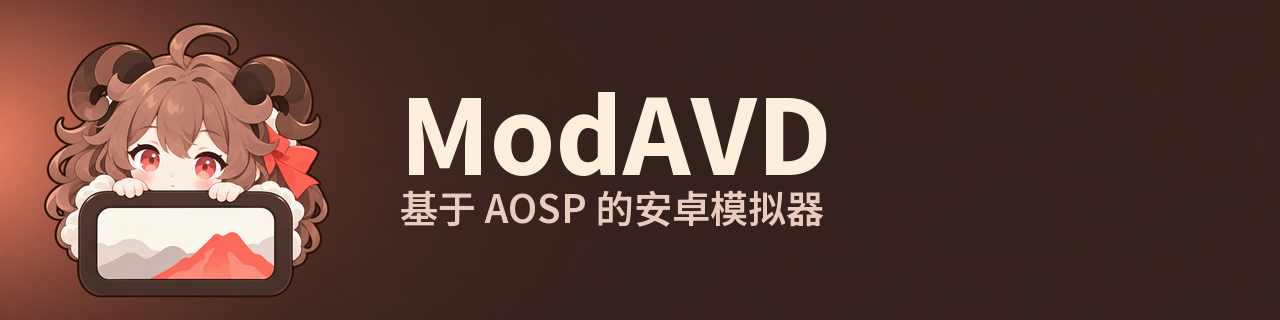
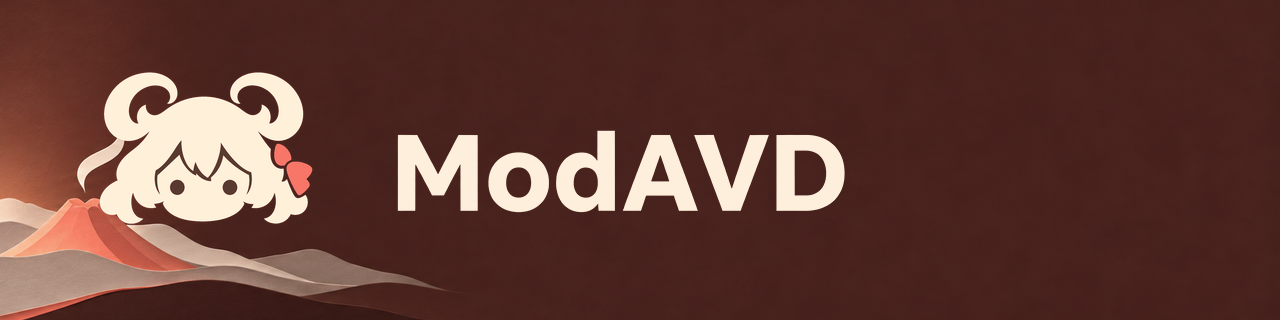
更新中英 README 开头和宣传配图

Changed region(s): [[0.0, 0.0, 0.3438, 1.0], [0.3125, 0.2812, 0.6875, 0.7188]]

diff --git a/README.en.md b/README.en.md
@@ -4,11 +4,9 @@
 
 <!-- README.md and README.en.md match section by section: if you change one, change the other in the same PR. -->
 
-![ModAVD – An AOSP-based Android emulator](assets/banner-en.png)
+![ModAVD](assets/banner.png)
 
-ModAVD is an Android emulator built from the AOSP Android Emulator 37.2.10 plus a set of patches. It runs on Windows today; support for more platforms is planned (see [#27](https://github.com/ModAVD/ModAVD/issues/27)).
-
-The package includes a manager (`ModAVD.exe`) and a CLI (`tools\modavd.exe`) for creating instances, starting and stopping them and updating ModAVD, with Chinese and English interfaces. Automation tools such as [AUTO-MAS](https://github.com/AUTO-MAS-Project/AUTO-MAS) can drive it too and handle instance orchestration and task flows. The capture library in the package lets automation tools read the screen, tap, press keys and type text without adb; from v6.23.0, MAA can connect to ModAVD directly.
+ModAVD is an Android emulator for Windows, with more platforms planned.
 
 **Documentation: <https://modavd.github.io/en/>** (installation, upgrade, feedback, privacy, the components and how to contribute are all there)
 
@@ -28,10 +26,22 @@ The package includes a manager (`ModAVD.exe`) and a CLI (`tools\modavd.exe`) for
 
 ## What is ModAVD
 
-- An Android emulator that runs on Windows today and uses the Windows Hypervisor Platform (WHPX) for hardware acceleration. More platforms are planned.
-- It can run in a window like any emulator, or headless (no window). The manager always starts instances with a window; headless starts come from the CLI or a script, and the manager or the CLI can shut them down afterwards.
-- The emulator itself comes from Google's open-source [Android Emulator](https://android.googlesource.com/platform/external/qemu/). We changed parts of QEMU, gfxstream (graphics streaming) and Crashpad (crash handling), and the changes are published as patches (`patches/`).
-- adb and the Android system images belong to Google and are covered by the Android Software Development Kit License Agreement, so we cannot distribute them. They are not in the Release; **Fetch components** in the manager, or the CLI command `tools\modavd.exe components fetch`, downloads them from the official channels on your computer.
+- Start an instance in a window from the manager, or run it without a window from the command line.
+- A cloned instance comes with the original instance's games, sign-in state, and settings.
+- Choose a resolution and a landscape or portrait orientation for each instance.
+- Type directly in the emulator window with your Windows input method.
+- Updating ModAVD keeps your existing instances, games, and sign-in state.
+- ModAVD works with automation tools such as AUTO-MAS and MAA.
+
+| Clone instances | Display settings per instance | Keep your instances when you update |
+| --- | --- | --- |
+| ![](assets/readme/clone.png) | ![](assets/readme/display.png) | ![](assets/readme/retain.png) |
+
+<!-- Add the manager instance list screenshot when available. -->
+
+| Instance settings | Emulator window |
+| --- | --- |
+| ![Resolution, DPI, and orientation settings in the manager](assets/readme/manager-settings.png) | ![Emulator window showing Android Settings and title bar buttons for screenshots, rotation, maximizing, and volume](assets/readme/instance-window.png) |
 
 Compared with the official emulator, the published 0.43.0 release no longer uploads usage statistics or crash reports to Google, and no longer checks Google for updates or downloads feature flags. Write-through lowers the risk of qcow2 metadata corruption when an instance is force-killed, but you should still run `sync` first. Memory that Android frees goes back to Windows. The data disk is 256 GB by default and takes only as much space on the PC as has actually been written; it can also be set to a fixed size. *Arknights* and *Arknights: Endfield* download their resources to a separate download disk, so frequent flushes to disk no longer slow them down. In a window, the title bar has maximize, screenshot and rotate buttons, plus a volume button when sound is on for the instance. A batch of graphics, networking and WHPX problems are fixed. From 0.36.0 the package includes the arm64 execution bridge, which lets some games that ship only for arm64 run; any other arm64-only game still has to be verified one by one. For the games we have tested, see [Tested games](#tested-games). For the item-by-item differences see [How ModAVD differs from the official emulator](https://modavd.github.io/en/guide/changes) on the docs site; for each patch see `patches/`.
 

diff --git a/README.md b/README.md
@@ -4,11 +4,9 @@
 
 <!-- README.md 和 README.en.md 逐节对应：改了其中一份，请在同一个 PR 里把另一份也改了。 -->
 
-![ModAVD：基于 AOSP 的安卓模拟器](assets/banner.png)
+![ModAVD](assets/banner.png)
 
-基于 AOSP Android Emulator 37.2.10 的安卓模拟器，加了一批补丁后自己编译。目前支持 Windows，以后计划支持更多平台（见 [#27](https://github.com/ModAVD/ModAVD/issues/27)）。
-
-包里带管理器 `ModAVD.exe` 和命令行 `tools\modavd.exe`，用来建实例、开机关机、更新，有中文和英文界面；也可以接入 [AUTO-MAS](https://github.com/AUTO-MAS-Project/AUTO-MAS) 这类自动化工具，由它们负责实例编排和任务流程。包里的截图库让这类工具不经 adb 直接取画面、点击、按键和输入文字；MAA 从 v6.23.0 起可以直接选 ModAVD 连接。
+ModAVD 是一款安卓模拟器，目前支持 Windows，计划支持更多平台。
 
 **文档站：<https://modavd.github.io/>**（安装、升级、反馈、隐私、各组件和参与开发的说明都在那里）
 
@@ -28,10 +26,22 @@
 
 ## 这是什么
 
-- 一个安卓模拟器，现在跑在 Windows 上，用 Windows 虚拟机监控程序平台（WHPX）做硬件加速；以后计划支持更多平台。
-- 可以开窗口当普通模拟器用，也可以不开窗口（无头）运行。管理器开机带窗口；无头开机用命令行或脚本，用完可以在管理器或命令行里关掉。
-- 模拟器本体来自 Google 开源的 [Android Emulator](https://android.googlesource.com/platform/external/qemu/)。我们改了其中的 QEMU、gfxstream（图形转发）和 Crashpad（崩溃处理），改动以补丁形式公开（`patches/`）。
-- adb 和安卓系统镜像属于 Google，受《Android 软件开发套件许可协议》约束，不能由我们分发，所以不在 Release 里，由管理器的「补全组件」（或命令行 `tools\modavd.exe components fetch`）在你的电脑上从官方渠道下载。
+- 用管理器带窗口启动，或用命令行无窗口运行。
+- 复制出来的实例也带着原来的游戏、登录状态和设置。
+- 每台实例都可以单独选择分辨率和横竖屏方向。
+- 在模拟器窗口里，可以直接用 Windows 输入法打字。
+- 更新 ModAVD 时会保留已有的实例、游戏和登录状态。
+- ModAVD 可以接入 AUTO-MAS、MAA 等自动化工具。
+
+| 复制实例 | 每台实例的显示设置 | 更新后接着用 |
+| --- | --- | --- |
+| ![](assets/readme/clone.png) | ![](assets/readme/display.png) | ![](assets/readme/retain.png) |
+
+<!-- 管理器实例列表截图待补。 -->
+
+| 实例设置 | 模拟器窗口 |
+| --- | --- |
+| ![管理器里的分辨率、DPI 和横竖屏设置](assets/readme/manager-settings.png) | ![打开安卓系统设置的模拟器窗口，标题栏上有截图、旋转、最大化和音量按钮](assets/readme/instance-window.png) |
 
 和官方模拟器相比，已发布的 0.43.0 不再向 Google 上传使用统计和崩溃报告，也不向 Google 检查更新、下载特性开关；write-through 降低强行结束时 qcow2 元数据损坏的风险，但仍应先执行 `sync`；安卓释放的内存还给 Windows；数据盘默认 256 GB、电脑上只按实际写入占空间，也可以改成指定大小；明日方舟、终末地下资源走单独的下载盘，不再被频繁落盘拖慢；带窗口时标题栏有最大化、截图、旋转按钮，开了声音的实例还有音量按钮；修了一批图形、网络和 WHPX 的问题；0.36.0 起带 arm64 执行桥，让一部分只有 arm64 版本的游戏也能跑，其他只有 arm64 的游戏仍需逐个验证。实测过哪些游戏见[已实测的游戏](#已实测的游戏)。逐项说明见文档站的[和官方模拟器有什么不同](https://modavd.github.io/guide/changes)，逐个补丁见 `patches/`。
 
